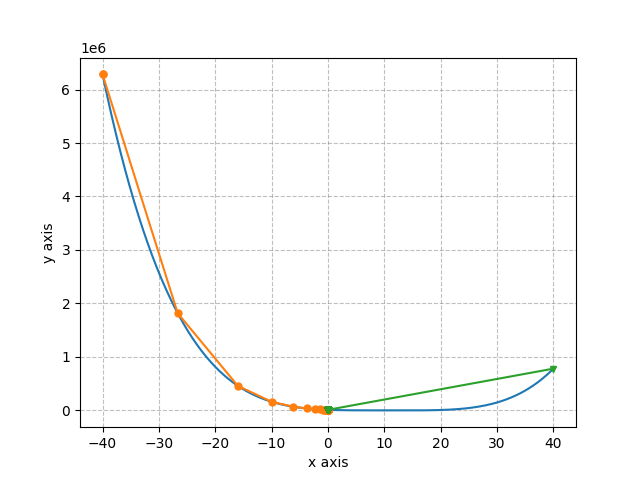
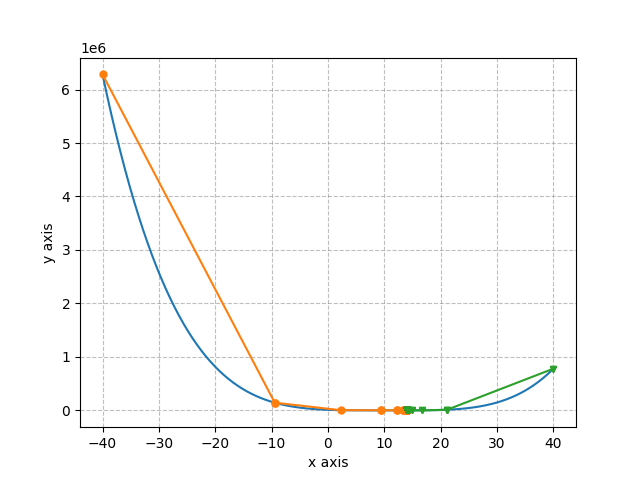
fibonacci method edit

diff --git a/univariate_optimization/unimodal_function_optimization/fibonacci.py b/univariate_optimization/unimodal_function_optimization/fibonacci.py
@@ -1,9 +1,12 @@
-def fibonacci_search(f, a, b, max_iter):
-    fibo_2 = 1
-    fibo_1 = 1
+def generate_fibonacci(n):
+    fibo_list = [1, 1]
+    for i in range(n-2):
+        fibo_list.append(fibo_list[-1] + fibo_list[-2])
+    
+    return fibo_list
 
-    an = None
-    bn = None
+def fibonacci_search(f, a, b, max_iter):
+    fibo_list = generate_fibonacci(max_iter+2)
 
     a_process = []
     b_process = []
@@ -13,7 +16,9 @@ def fibonacci_search(f, a, b, max_iter):
         b_process.append(b)
 
         L = b - a
-        fibo = fibo_2 + fibo_1
+        fibo = fibo_list[-(n+1)]
+        fibo_1 = fibo_list[-(n+2)]
+        fibo_2 = fibo_list[-(n+3)]
 
         an = a + (fibo_2/fibo)*L
         bn = b - (fibo_2/fibo)*L
